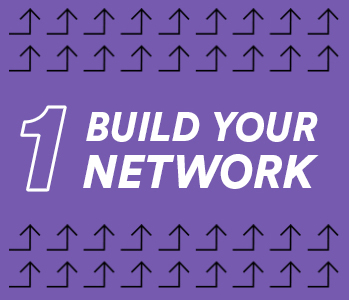
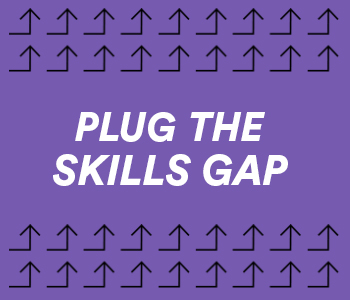
Added new images

diff --git a/app/views/v2/employer/about.html b/app/views/v2/employer/about.html
@@ -45,7 +45,7 @@
     <div class="tl-container">
         <div class="row">
             <div class="col-md-6">
-                <img class="tl-image--responsive" src="{{ asset_path }}images/employer/about4.jpg" alt="" />
+                <img class="tl-image--responsive" src="{{ asset_path }}images/employer/about6.jpg" alt="" />
             </div>
             <div class="col-md-6 my-auto">
                 <h2 class="tl-margin-bottom-30">

diff --git a/app/views/v2/employer/skills-available.html b/app/views/v2/employer/skills-available.html
@@ -20,7 +20,7 @@
 
             </div>
             <div class="col-md-4 my-auto">
-                <img class="tl-employer--big-image tl-employer--big-image--left" src="{{ asset_path }}images/employer/bens1.jpg" alt="" />
+                <img class="tl-employer--big-image tl-employer--big-image--left" src="{{ asset_path }}images/employer/skills1.jpg" alt="" />
             </div>
         </div>
     </div>
